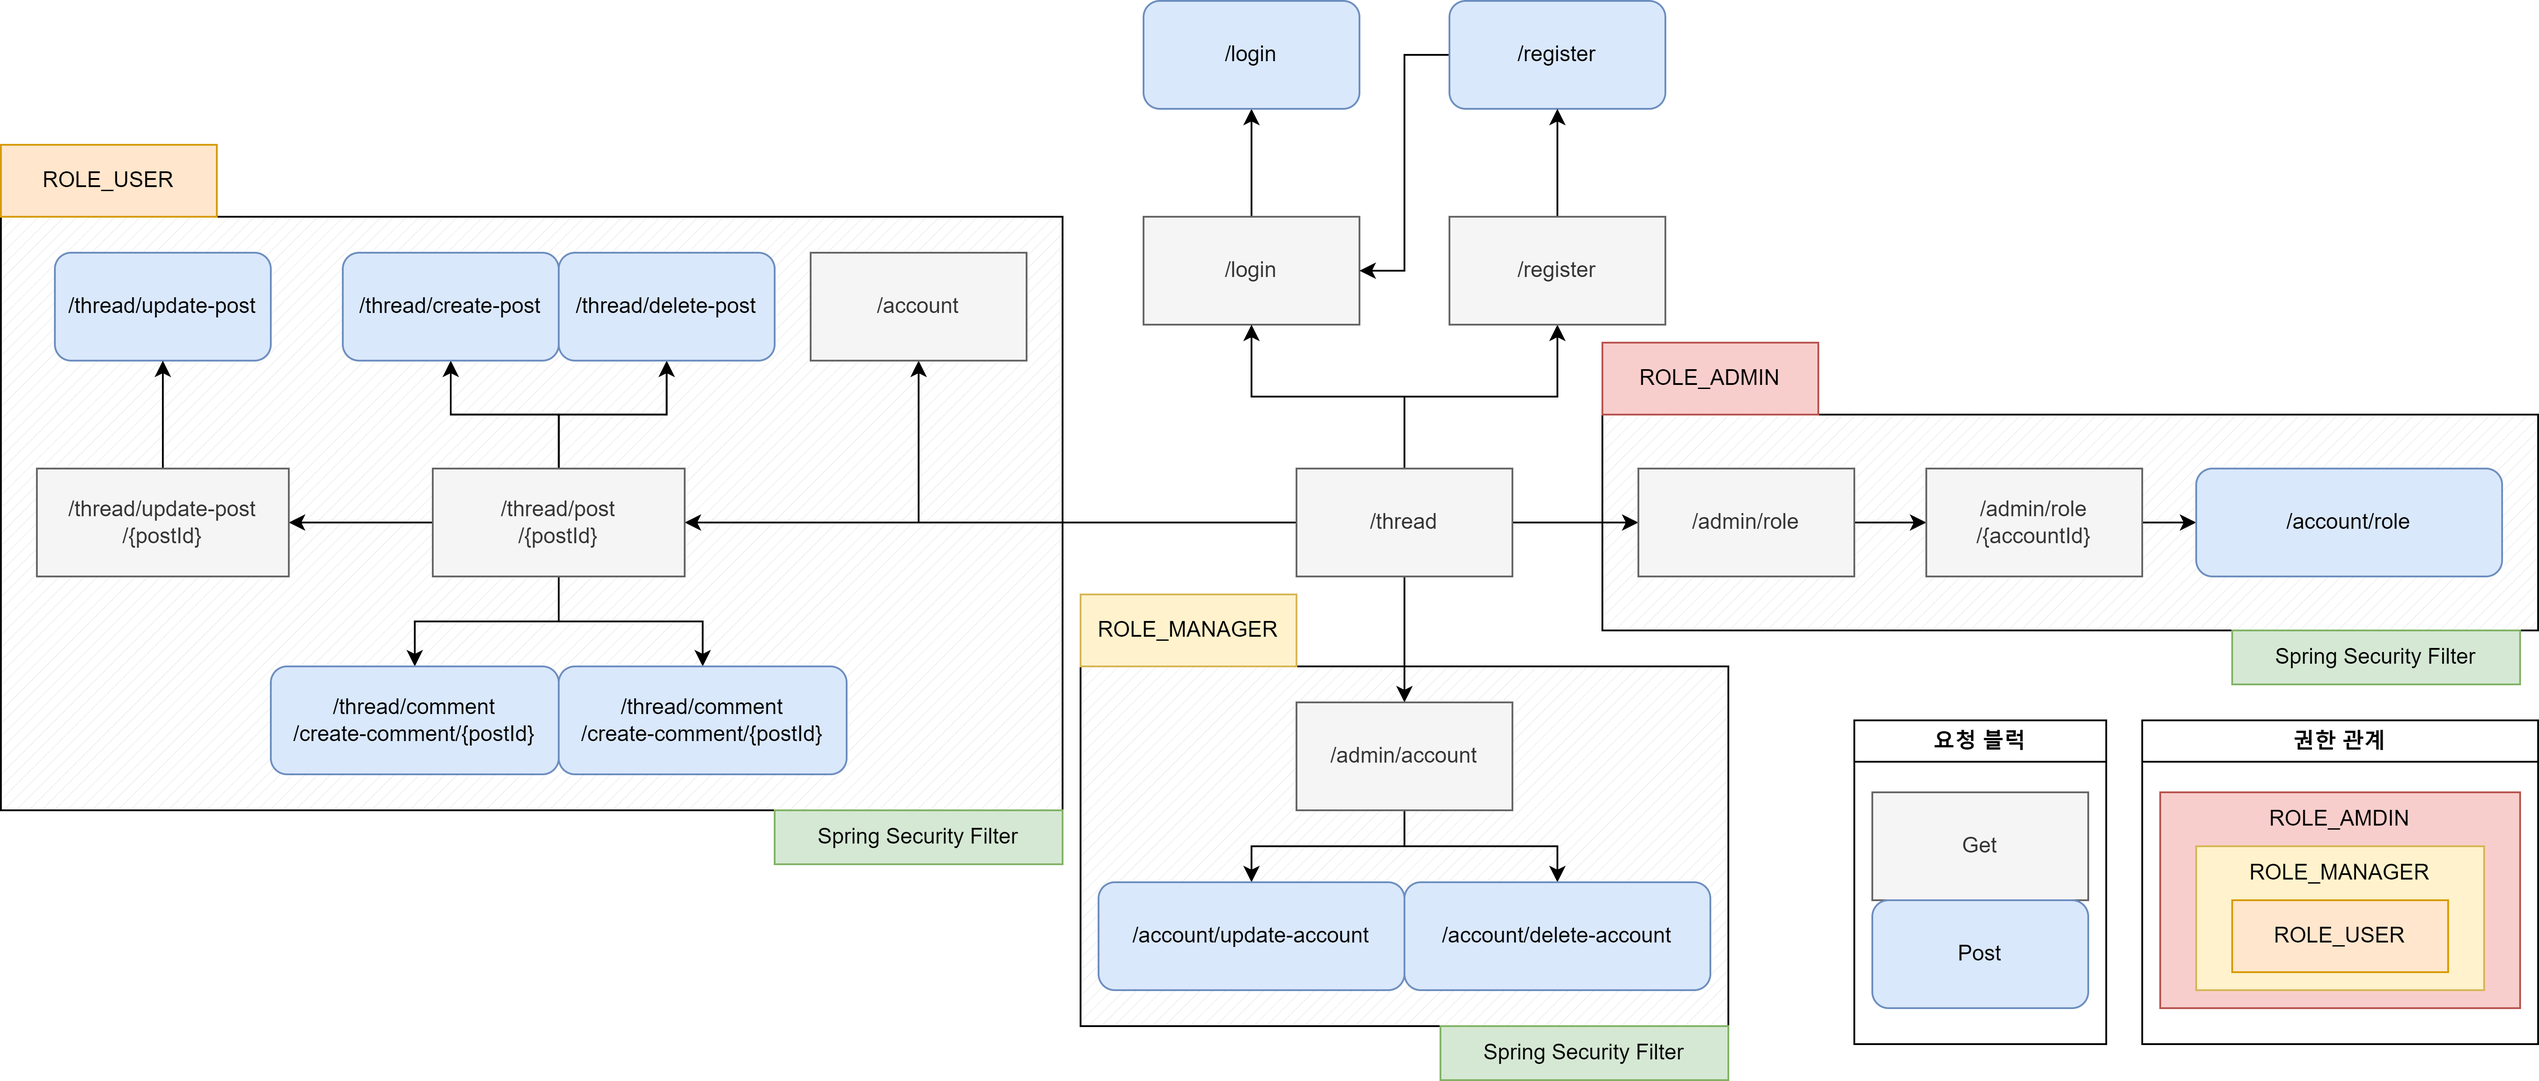
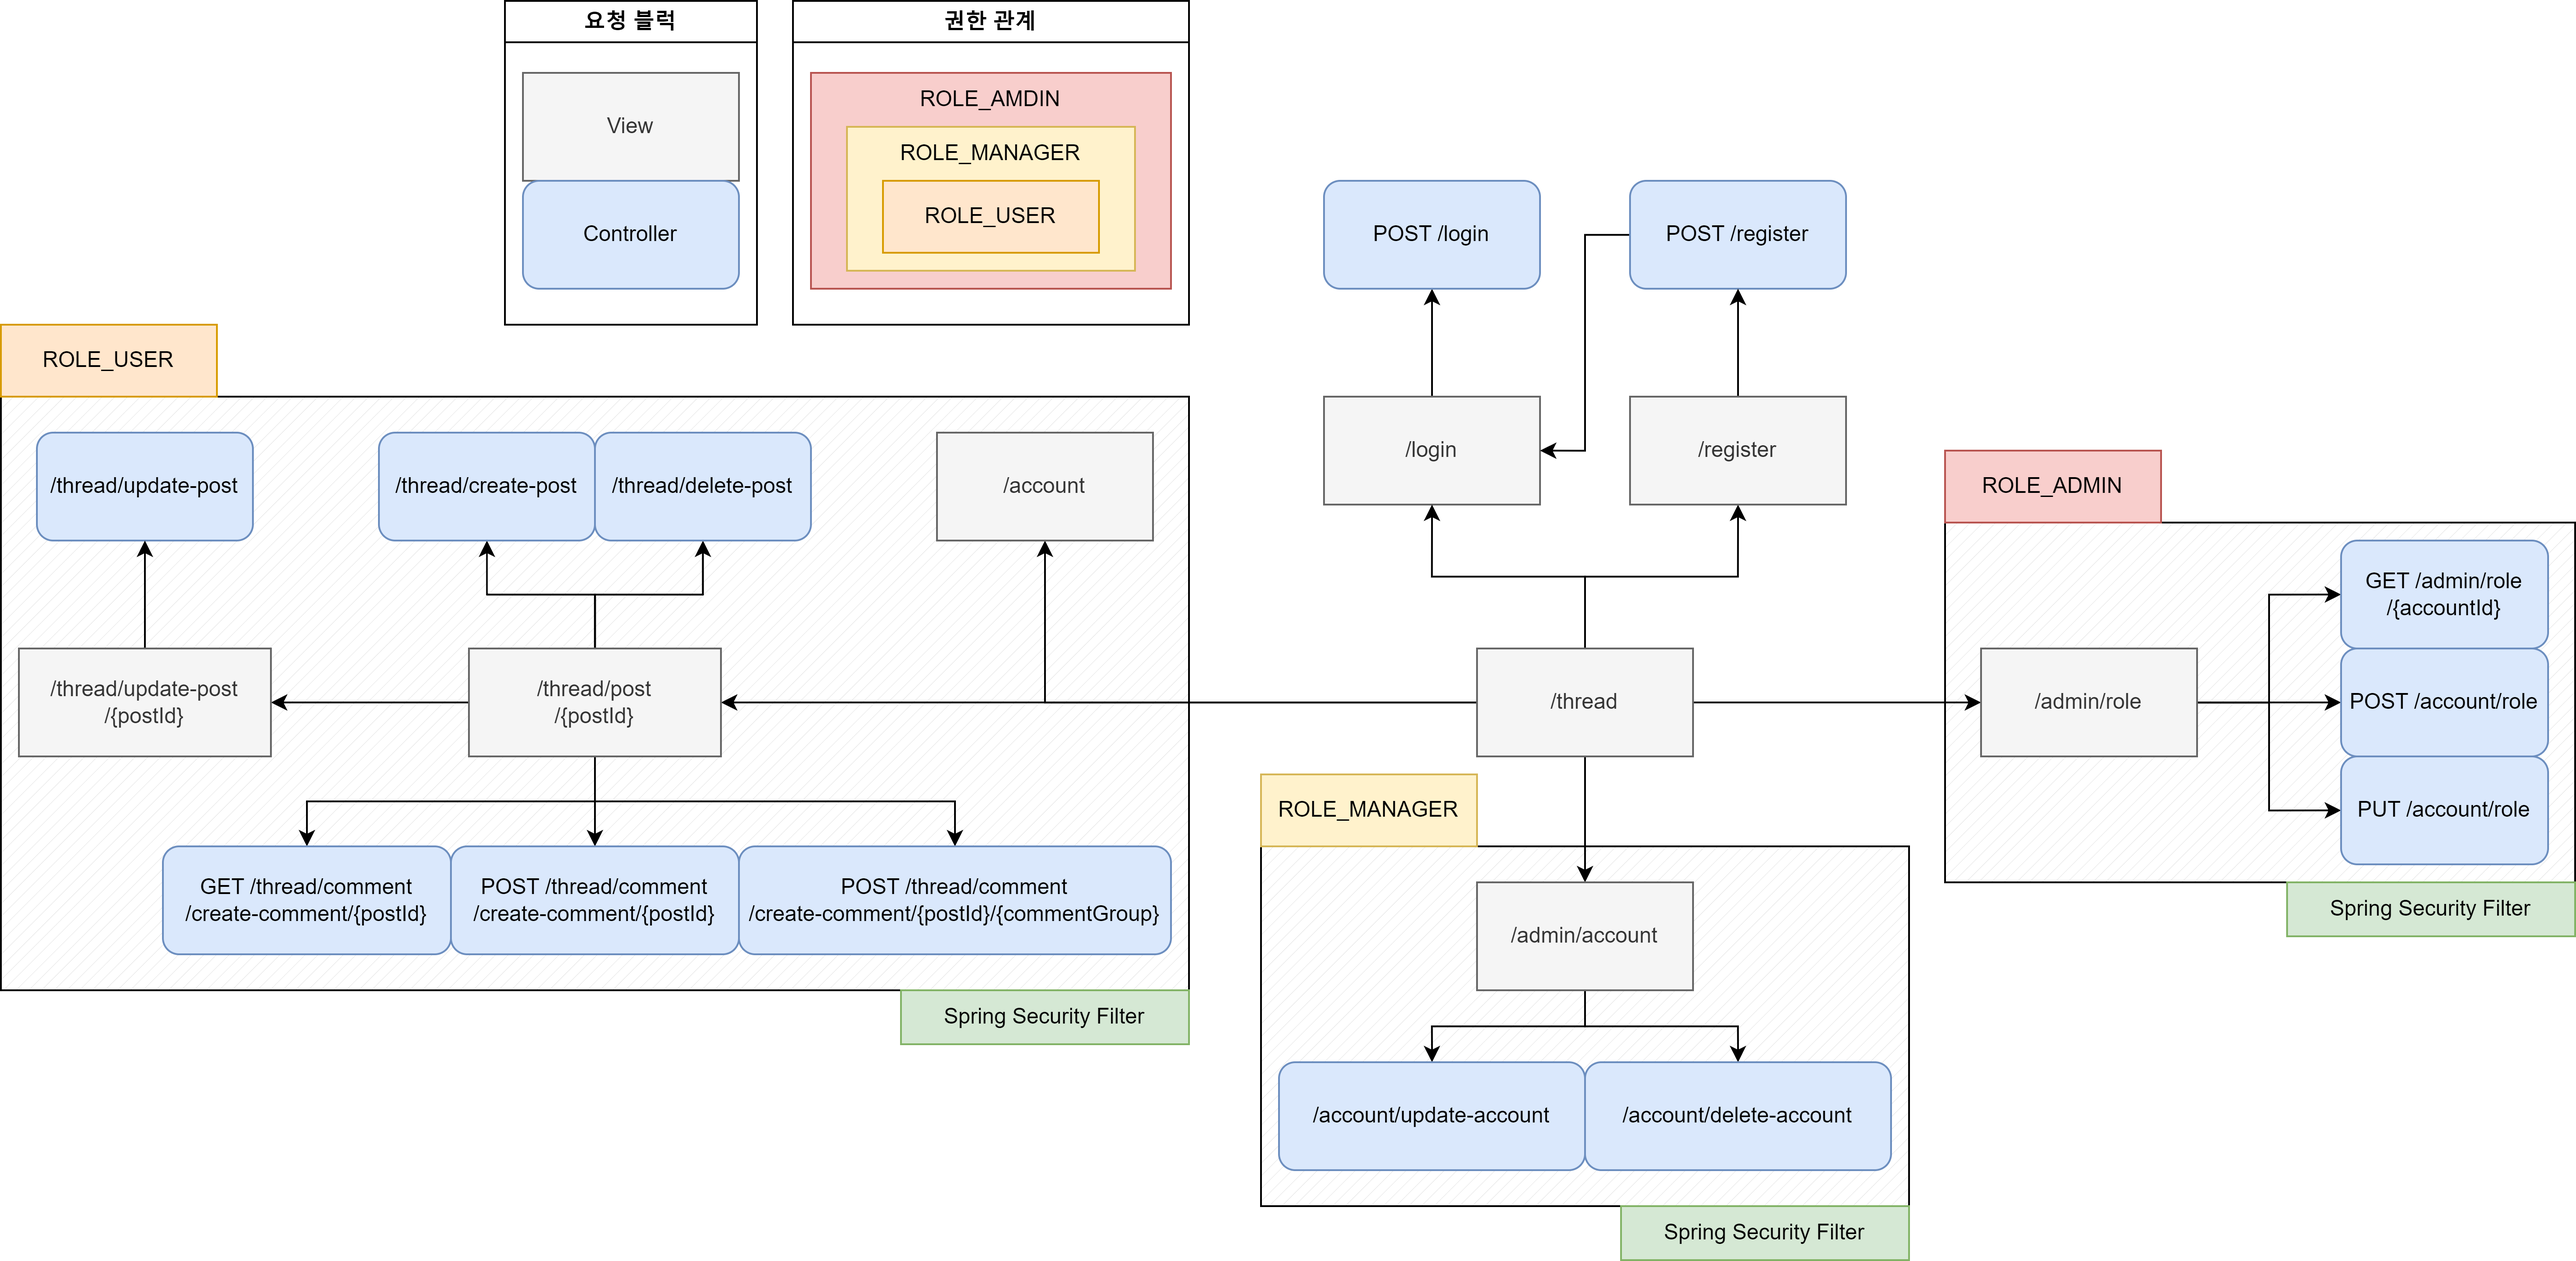
계정 강제 로그아웃, README 수정

diff --git a/src/main/java/crud/board/BoardAuthority/security/lib/AuthenticationSupport.java b/src/main/java/crud/board/BoardAuthority/security/lib/AuthenticationSupport.java
@@ -1,0 +1,60 @@
+package crud.board.BoardAuthority.security.lib;
+
+import crud.board.BoardAuthority.security.authenticationManager.AccountContext;
+import crud.board.BoardAuthority.security.authenticationManager.CustomUserDetailsService;
+import lombok.RequiredArgsConstructor;
+import lombok.extern.slf4j.Slf4j;
+import org.springframework.security.authentication.UsernamePasswordAuthenticationToken;
+import org.springframework.security.core.Authentication;
+import org.springframework.security.core.context.SecurityContext;
+import org.springframework.security.core.context.SecurityContextHolder;
+import org.springframework.security.core.session.SessionInformation;
+import org.springframework.security.core.session.SessionRegistry;
+import org.springframework.security.core.userdetails.UserDetails;
+import org.springframework.stereotype.Service;
+
+import java.util.List;
+@Slf4j
+@Service
+@RequiredArgsConstructor
+public class AuthenticationSupport {
+
+    private final CustomUserDetailsService customUserDetailsService;
+    private final SessionRegistry sessionRegistry;
+
+    public void updateSecurityContext(){
+        Authentication authentication = SecurityContextHolder.getContext().getAuthentication();
+        AccountContext accountContext = (AccountContext) authentication.getPrincipal();
+
+        SecurityContextHolder.getContext().setAuthentication(
+                updateAuthentcation(authentication, accountContext.getUsername())
+        );
+    }
+
+    private Authentication updateAuthentcation(Authentication auth, String username){
+        UserDetails userDetails = customUserDetailsService.loadUserByUsername(username);
+        UsernamePasswordAuthenticationToken newAuth = new UsernamePasswordAuthenticationToken(
+                userDetails, auth.getCredentials(), userDetails.getAuthorities()
+        );
+        newAuth.setDetails(auth.getDetails());
+        return newAuth;
+    }
+
+    public void forceLogoutUser(String username){
+
+        List<Object> allPrincipals = sessionRegistry.getAllPrincipals();
+
+        for (Object principal : allPrincipals){
+            AccountContext accountContext = (AccountContext) principal;
+
+            if (accountContext.getUsername().equals(username)){
+                
+                // 사용자의 모든 세션을 가져옴
+                List<SessionInformation> allSessions = sessionRegistry.getAllSessions(principal, false);
+                allSessions.forEach(s -> s.expireNow());
+
+                break;
+            }
+        }
+    }
+}

diff --git a/src/main/java/crud/board/BoardAuthority/service/AccountService.java b/src/main/java/crud/board/BoardAuthority/service/AccountService.java
@@ -6,12 +6,16 @@ import crud.board.BoardAuthority.domain.response.AccountInfoResponse;
 import crud.board.BoardAuthority.entity.account.Account;
 import crud.board.BoardAuthority.entity.general.embeddables.TimeInform;
 import crud.board.BoardAuthority.repository.AccountRepository;
+import crud.board.BoardAuthority.security.authenticationManager.AccountContext;
+import crud.board.BoardAuthority.security.lib.AuthenticationSupport;
 import lombok.RequiredArgsConstructor;
 import lombok.extern.slf4j.Slf4j;
 import org.springframework.data.domain.Page;
 import org.springframework.data.domain.PageRequest;
 import org.springframework.data.domain.Pageable;
 import org.springframework.data.domain.Sort;
+import org.springframework.security.core.Authentication;
+import org.springframework.security.core.context.SecurityContextHolder;
 import org.springframework.security.crypto.password.PasswordEncoder;
 import org.springframework.stereotype.Service;
 
@@ -27,6 +31,7 @@ public class AccountService {
 
     private final RoleService roleService;
     private final PasswordEncoder passwordEncoder;
+    private final AuthenticationSupport authenticationSupport;
     
     public boolean createCommonUser(AccountDto accountDto){
         Account account = new Account();
@@ -87,6 +92,8 @@ public class AccountService {
         Account account = getAccount(username);
         account.setRole(roleService.findRole(roleName));
 
+        authenticationSupport.forceLogoutUser(username);
+
         accountRepository.save(account);
     }
 
@@ -110,6 +117,9 @@ public class AccountService {
             Pageable pageable = PageRequest.of(page - 1, size);
 
             return accountRepository.search(searchDto, pageable);
+        } catch (IllegalArgumentException e){
+            log.info("Page index must not be less than zero");
+            return null;
         } catch (Exception e){
             e.printStackTrace();
             return null;

diff --git a/src/main/java/crud/board/BoardAuthority/security/SecurityConfiguration.java b/src/main/java/crud/board/BoardAuthority/security/SecurityConfiguration.java
@@ -11,6 +11,8 @@ import org.springframework.security.config.annotation.authentication.builders.Au
 import org.springframework.security.config.annotation.web.builders.HttpSecurity;
 import org.springframework.security.config.annotation.web.configuration.WebSecurityCustomizer;
 import org.springframework.security.core.Authentication;
+import org.springframework.security.core.session.SessionRegistry;
+import org.springframework.security.core.session.SessionRegistryImpl;
 import org.springframework.security.crypto.bcrypt.BCryptPasswordEncoder;
 import org.springframework.security.crypto.factory.PasswordEncoderFactories;
 import org.springframework.security.crypto.password.PasswordEncoder;
@@ -92,6 +94,7 @@ public class SecurityConfiguration {
                                 .maximumSessions(1)
                                 .maxSessionsPreventsLogin(false)
 //                        .expiredUrl("expired")
+                                .sessionRegistry(sessionRegistry())
                 )
 //                .exceptionHandling(e ->
 //                        e.accessDeniedPage("/")
@@ -104,5 +107,10 @@ public class SecurityConfiguration {
     @Bean
     public static PasswordEncoder passwordEncoder(){
         return new BCryptPasswordEncoder();
+    }
+
+    @Bean
+    public SessionRegistry sessionRegistry(){
+        return new SessionRegistryImpl();
     }
 }

diff --git a/src/test/java/crud/board/BoardAuthority/BoardAuthorityApplicationTests.java b/src/test/java/crud/board/BoardAuthority/BoardAuthorityApplicationTests.java
@@ -2,6 +2,7 @@ package crud.board.BoardAuthority;
 
 import crud.board.BoardAuthority.entity.thread.Post;
 import crud.board.BoardAuthority.repository.CommentRepository;
+import crud.board.BoardAuthority.security.lib.AuthenticationSupport;
 import crud.board.BoardAuthority.service.PostService;
 import crud.board.BoardAuthority.service.RoleService;
 import org.junit.jupiter.api.Test;
@@ -25,9 +26,11 @@ class BoardAuthorityApplicationTests {
 	@Autowired
 	private RoleService roleService;
 
+	@Autowired
+	private AuthenticationSupport authenticationSupport;
+
 	@Test
 	void contextLoads() {
 		roleService.getRoutes("ROLE_USER");
 	}
-
 }

diff --git a/src/main/java/crud/board/BoardAuthority/security/handler/AuthorizationDynamicHandler.java b/src/main/java/crud/board/BoardAuthority/security/handler/AuthorizationDynamicHandler.java
@@ -31,6 +31,7 @@ public class AuthorizationDynamicHandler {
     private final RoleService roleService;
 
     public boolean isAuthorization(HttpServletRequest request, Authentication authentication){
+
         Object principal = authentication.getPrincipal();
 
         // 권한이 없는 경우

diff --git a/README.md b/README.md
@@ -29,6 +29,8 @@
 - HTML
 - Thymleaf
 - BootStrap v5.1
+- JavaScript
+- jQuery
 
 > ## IDE
 - IntelliJ IDEA
@@ -173,6 +175,11 @@
 ![commenttocommentcomplete](images/pages/commenttocommentcomplete.png)
   - 작성된 댓글에 reply 버튼을 클릭하면 대댓글 작성칸이 나온다.
 
+<br>
+
+- *비동기 처리*
+  - Ajax를 활용함으로써 좀 더 빠른 로드를 할 수 있게 함
+
 </div>
 </details>
 
@@ -260,6 +267,7 @@
 - *사용자 권한 수정*    
 ![roleupdate](images/pages/accountroleupdate.png)
   - 드롭다운 리스트에서 하나를 고르고 수정하기 버튼을 누르면 사용자의 권한이 수정된다.
+  - 수정된 계정의 세션은 만료되어, 다시 로그인을 해야한다.
 
 <br>
 
@@ -277,6 +285,7 @@
 - *기본*  
 ![adminrole](images/pages/role.png)
   - 각 권한에게 허용된 URL을 관리함
+  - Ajax를 활용한 비동기 처리를 하여 빠른 로드를 가능하게 함
 
 <details>
 <summary><u>사용자 권한 수정 및 삭제 기능</u></summary>
@@ -306,6 +315,8 @@
 
 - 백엔드 데이터 검증
 
+- Ajax를 활용한 비동기 처리
+
 <br>
 
 ># 만들면서 배운 것
@@ -316,3 +327,6 @@
 
 - JpaRepository의 findAll() 로 뽑아와서 map() 해서 값들 뽑아오지 말기... 이거 때문에 쿼리가 비효율적으로 출력되는 것 같다.
   - QueryDsl로 대체하여 구현
+
+- 수정된 권한이 즉각적으로 반영이 안되는 점이 있었다. 이 문제는 권한이 변경된 사용자의 세션이 갱신되지 않아서 생기는 문제였다. 
+  - sessionRegistry 에서 권한이 변경된 사용자를 찾아서 세션을 만료시켜서 해결하였다.
